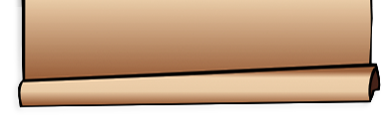
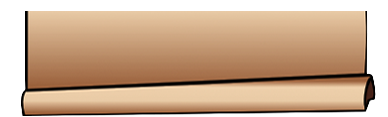
adds new images for quests

diff --git a/server/app.js b/server/app.js
@@ -283,7 +283,7 @@ function isMovementAllowed(location, direction) {
 
     var isForbidden = cache.forbiddenTiles.indexOf(locationString) > -1;
 
-    console.log(location, tile, direction, locationString, isForbidden);
+    // console.log(location, tile, direction, locationString, isForbidden);
 
     if (isForbidden) {
         return false;
@@ -538,7 +538,7 @@ function buildCache() {
             var locationString = x + '_' + y;
             var isForbidden = terrainId > 0 && forbiddenTerrain.indexOf(terrainId) > -1;
 
-            console.log('Tile cache:', terrainId, locationString, isForbidden);
+            // console.log('Tile cache:', terrainId, locationString, isForbidden);
 
 
             if (isForbidden) {

diff --git a/frontend/assets/less/quest.less b/frontend/assets/less/quest.less
@@ -25,7 +25,7 @@
     background: url(../images/parchent_bottom.png) no-repeat;
     background-position: left bottom;
     background-size: 100% auto;
-    padding-bottom: 179px;
+    padding-bottom: 139px;
 
     #questBadge
     {
